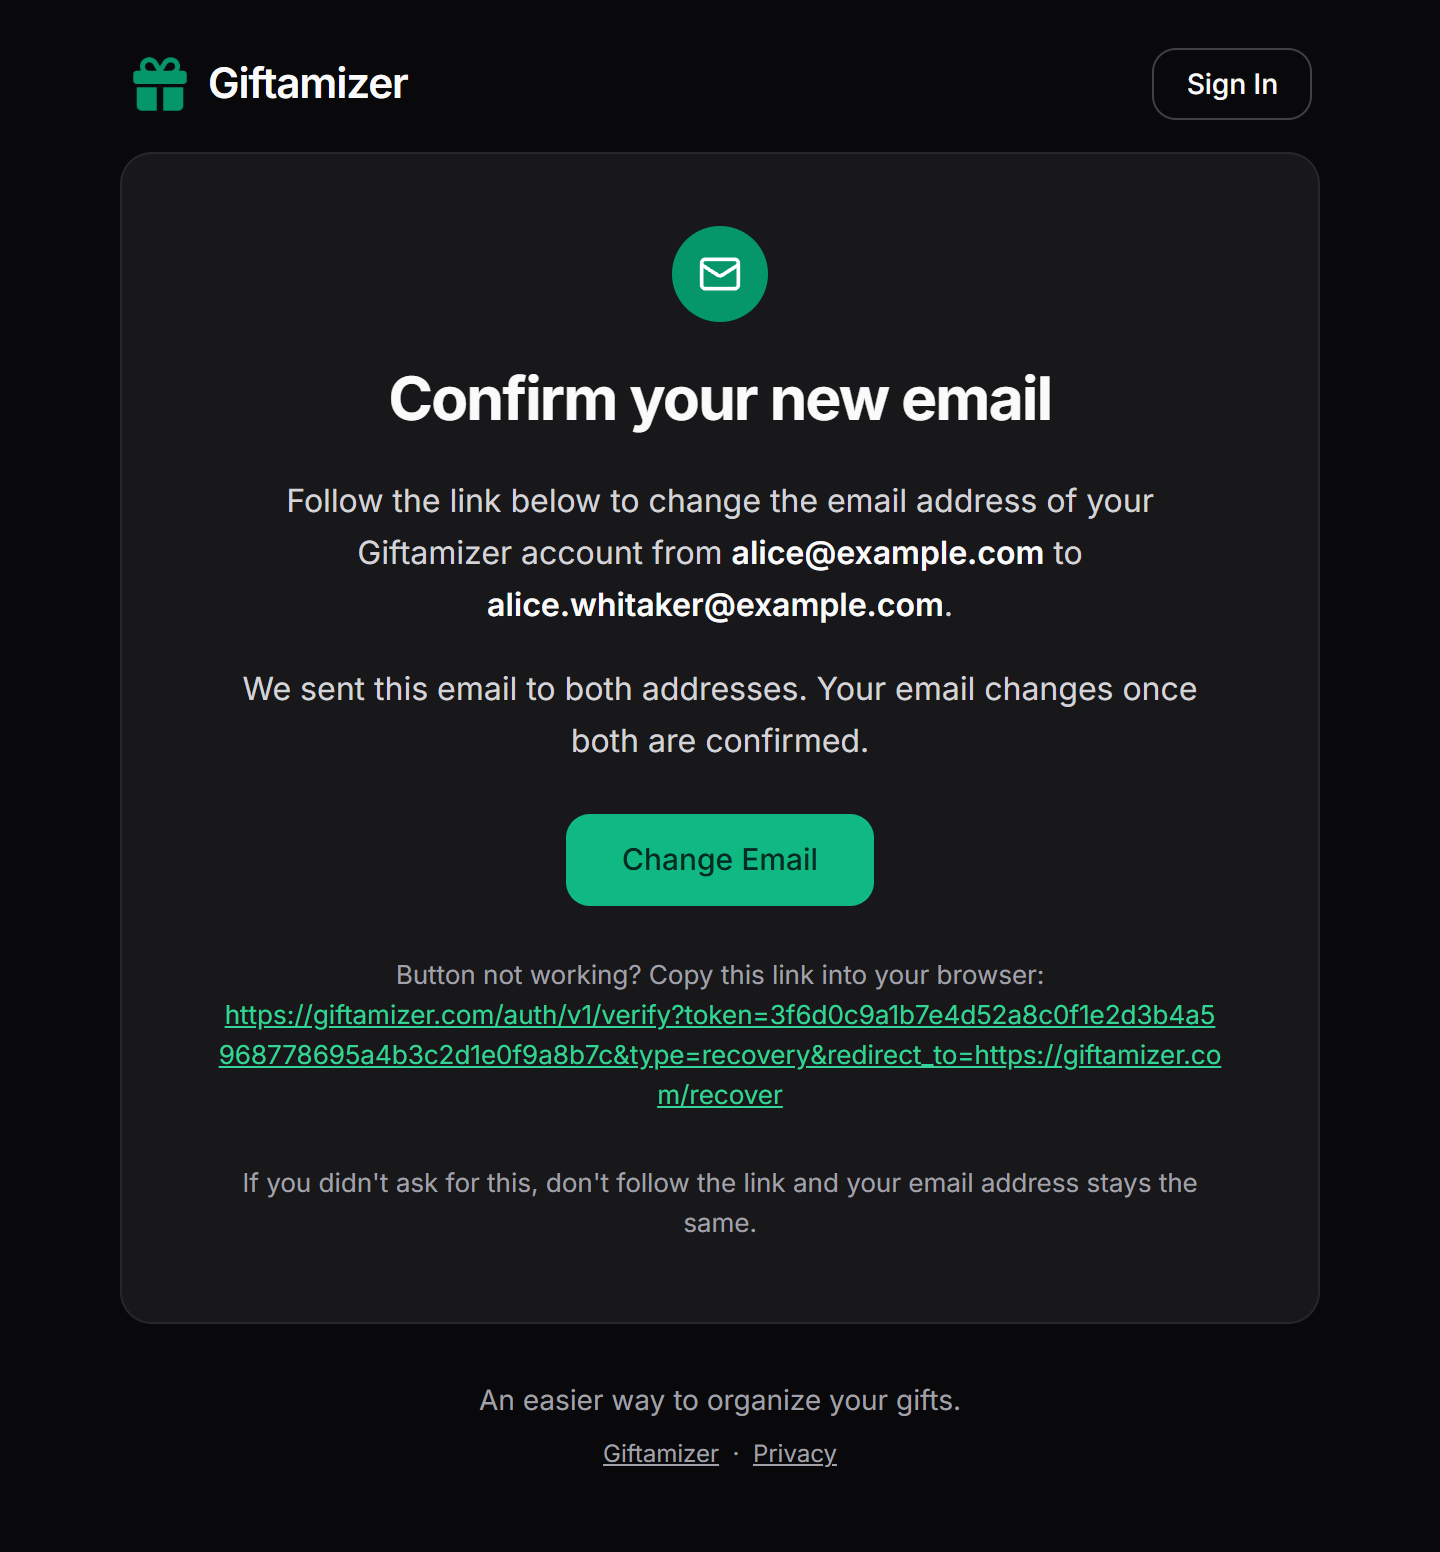
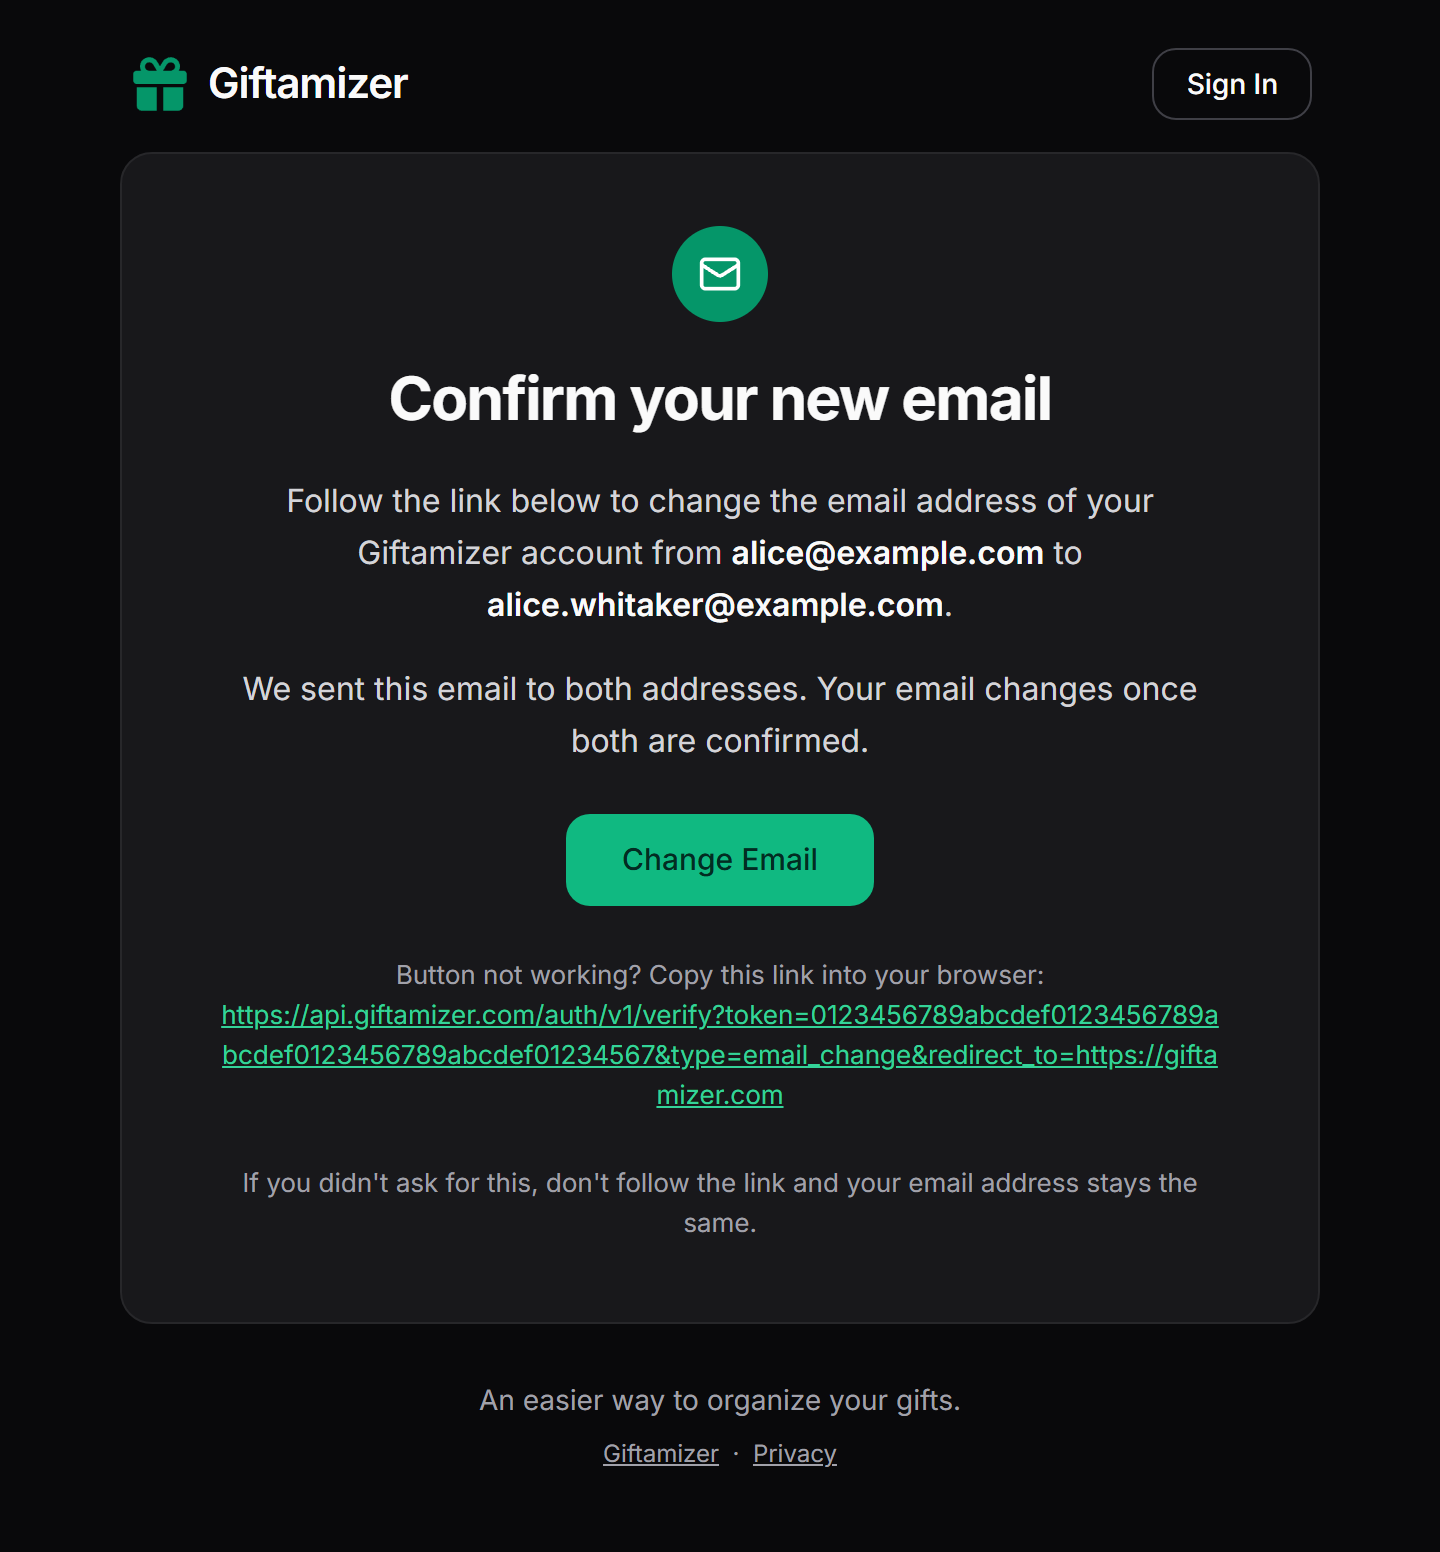
chore: add the script that builds the email previews
Rebuilds email-previews from the current templates. Also rebuilds the
previews with it, which fixes the sample links in the auth emails.

Changed region(s): [[0.1562, 0.6495, 0.8438, 0.7113]]

diff --git a/email-previews/html/2-recovery.html b/email-previews/html/2-recovery.html
@@ -92,11 +92,11 @@
 <table role="presentation" cellpadding="0" cellspacing="0" border="0" style="margin: 24px auto 0;">
 										<tr>
 											<td class="btn" align="center" bgcolor="#059669" style="border-radius: 12px; background-color: #059669; mso-padding-alt: 13px 28px;">
-												<a class="btn-a" href="https://giftamizer.com/auth/v1/verify?token=3f6d0c9a1b7e4d52a8c0f1e2d3b4a5968778695a4b3c2d1e0f9a8b7c&amp;type=recovery&amp;redirect_to=https://giftamizer.com/recover" target="_blank" style="display: inline-block; padding: 13px 28px; border-radius: 12px; font-family: 'Segoe UI', Roboto, Helvetica, Arial, sans-serif; font-size: 15px; line-height: 20px; font-weight: 500; color: #ffffff; text-decoration: none;">Reset Password</a>
+												<a class="btn-a" href="https://api.giftamizer.com/auth/v1/verify?token=0123456789abcdef0123456789abcdef0123456789abcdef01234567&amp;type=recovery&amp;redirect_to=https://giftamizer.com/recover" target="_blank" style="display: inline-block; padding: 13px 28px; border-radius: 12px; font-family: 'Segoe UI', Roboto, Helvetica, Arial, sans-serif; font-size: 15px; line-height: 20px; font-weight: 500; color: #ffffff; text-decoration: none;">Reset Password</a>
 											</td>
 										</tr>
 									</table>
-<p class="muted" style="margin: 24px 0 0; font-family: 'Segoe UI', Roboto, Helvetica, Arial, sans-serif; font-size: 13px; line-height: 20px; color: #71717a;">Button not working? Copy this link into your browser:<br /><a class="accent" href="https://giftamizer.com/auth/v1/verify?token=3f6d0c9a1b7e4d52a8c0f1e2d3b4a5968778695a4b3c2d1e0f9a8b7c&amp;type=recovery&amp;redirect_to=https://giftamizer.com/recover" target="_blank" style="color: #059669; text-decoration: underline; word-break: break-all;">https://giftamizer.com/auth/v1/verify?token=3f6d0c9a1b7e4d52a8c0f1e2d3b4a5968778695a4b3c2d1e0f9a8b7c&amp;type=recovery&amp;redirect_to=https://giftamizer.com/recover</a></p>
+<p class="muted" style="margin: 24px 0 0; font-family: 'Segoe UI', Roboto, Helvetica, Arial, sans-serif; font-size: 13px; line-height: 20px; color: #71717a;">Button not working? Copy this link into your browser:<br /><a class="accent" href="https://api.giftamizer.com/auth/v1/verify?token=0123456789abcdef0123456789abcdef0123456789abcdef01234567&amp;type=recovery&amp;redirect_to=https://giftamizer.com/recover" target="_blank" style="color: #059669; text-decoration: underline; word-break: break-all;">https://api.giftamizer.com/auth/v1/verify?token=0123456789abcdef0123456789abcdef0123456789abcdef01234567&amp;type=recovery&amp;redirect_to=https://giftamizer.com/recover</a></p>
 <p class="muted" style="margin: 24px 0 0; font-family: 'Segoe UI', Roboto, Helvetica, Arial, sans-serif; font-size: 13px; line-height: 20px; color: #71717a;">If you didn't ask for this, you can ignore this email. Your password stays the same.</p>
 										</td>
 									</tr>

diff --git a/email-previews/html/3-email-change.html b/email-previews/html/3-email-change.html
@@ -93,11 +93,11 @@
 <table role="presentation" cellpadding="0" cellspacing="0" border="0" style="margin: 24px auto 0;">
 										<tr>
 											<td class="btn" align="center" bgcolor="#059669" style="border-radius: 12px; background-color: #059669; mso-padding-alt: 13px 28px;">
-												<a class="btn-a" href="https://giftamizer.com/auth/v1/verify?token=3f6d0c9a1b7e4d52a8c0f1e2d3b4a5968778695a4b3c2d1e0f9a8b7c&amp;type=recovery&amp;redirect_to=https://giftamizer.com/recover" target="_blank" style="display: inline-block; padding: 13px 28px; border-radius: 12px; font-family: 'Segoe UI', Roboto, Helvetica, Arial, sans-serif; font-size: 15px; line-height: 20px; font-weight: 500; color: #ffffff; text-decoration: none;">Change Email</a>
+												<a class="btn-a" href="https://api.giftamizer.com/auth/v1/verify?token=0123456789abcdef0123456789abcdef0123456789abcdef01234567&amp;type=email_change&amp;redirect_to=https://giftamizer.com" target="_blank" style="display: inline-block; padding: 13px 28px; border-radius: 12px; font-family: 'Segoe UI', Roboto, Helvetica, Arial, sans-serif; font-size: 15px; line-height: 20px; font-weight: 500; color: #ffffff; text-decoration: none;">Change Email</a>
 											</td>
 										</tr>
 									</table>
-<p class="muted" style="margin: 24px 0 0; font-family: 'Segoe UI', Roboto, Helvetica, Arial, sans-serif; font-size: 13px; line-height: 20px; color: #71717a;">Button not working? Copy this link into your browser:<br /><a class="accent" href="https://giftamizer.com/auth/v1/verify?token=3f6d0c9a1b7e4d52a8c0f1e2d3b4a5968778695a4b3c2d1e0f9a8b7c&amp;type=recovery&amp;redirect_to=https://giftamizer.com/recover" target="_blank" style="color: #059669; text-decoration: underline; word-break: break-all;">https://giftamizer.com/auth/v1/verify?token=3f6d0c9a1b7e4d52a8c0f1e2d3b4a5968778695a4b3c2d1e0f9a8b7c&amp;type=recovery&amp;redirect_to=https://giftamizer.com/recover</a></p>
+<p class="muted" style="margin: 24px 0 0; font-family: 'Segoe UI', Roboto, Helvetica, Arial, sans-serif; font-size: 13px; line-height: 20px; color: #71717a;">Button not working? Copy this link into your browser:<br /><a class="accent" href="https://api.giftamizer.com/auth/v1/verify?token=0123456789abcdef0123456789abcdef0123456789abcdef01234567&amp;type=email_change&amp;redirect_to=https://giftamizer.com" target="_blank" style="color: #059669; text-decoration: underline; word-break: break-all;">https://api.giftamizer.com/auth/v1/verify?token=0123456789abcdef0123456789abcdef0123456789abcdef01234567&amp;type=email_change&amp;redirect_to=https://giftamizer.com</a></p>
 <p class="muted" style="margin: 24px 0 0; font-family: 'Segoe UI', Roboto, Helvetica, Arial, sans-serif; font-size: 13px; line-height: 20px; color: #71717a;">If you didn't ask for this, don't follow the link and your email address stays the same.</p>
 										</td>
 									</tr>

diff --git a/email-previews/html/1-confirmation.html b/email-previews/html/1-confirmation.html
@@ -97,11 +97,11 @@
 <table role="presentation" cellpadding="0" cellspacing="0" border="0" style="margin: 24px auto 0;">
 										<tr>
 											<td class="btn" align="center" bgcolor="#059669" style="border-radius: 12px; background-color: #059669; mso-padding-alt: 13px 28px;">
-												<a class="btn-a" href="https://giftamizer.com/auth/v1/verify?token=3f6d0c9a1b7e4d52a8c0f1e2d3b4a5968778695a4b3c2d1e0f9a8b7c&amp;type=recovery&amp;redirect_to=https://giftamizer.com/recover" target="_blank" style="display: inline-block; padding: 13px 28px; border-radius: 12px; font-family: 'Segoe UI', Roboto, Helvetica, Arial, sans-serif; font-size: 15px; line-height: 20px; font-weight: 500; color: #ffffff; text-decoration: none;">Confirm Email</a>
+												<a class="btn-a" href="https://api.giftamizer.com/auth/v1/verify?token=0123456789abcdef0123456789abcdef0123456789abcdef01234567&amp;type=signup&amp;redirect_to=https://giftamizer.com" target="_blank" style="display: inline-block; padding: 13px 28px; border-radius: 12px; font-family: 'Segoe UI', Roboto, Helvetica, Arial, sans-serif; font-size: 15px; line-height: 20px; font-weight: 500; color: #ffffff; text-decoration: none;">Confirm Email</a>
 											</td>
 										</tr>
 									</table>
-<p class="muted" style="margin: 24px 0 0; font-family: 'Segoe UI', Roboto, Helvetica, Arial, sans-serif; font-size: 13px; line-height: 20px; color: #71717a;">Button not working? Copy this link into your browser:<br /><a class="accent" href="https://giftamizer.com/auth/v1/verify?token=3f6d0c9a1b7e4d52a8c0f1e2d3b4a5968778695a4b3c2d1e0f9a8b7c&amp;type=recovery&amp;redirect_to=https://giftamizer.com/recover" target="_blank" style="color: #059669; text-decoration: underline; word-break: break-all;">https://giftamizer.com/auth/v1/verify?token=3f6d0c9a1b7e4d52a8c0f1e2d3b4a5968778695a4b3c2d1e0f9a8b7c&amp;type=recovery&amp;redirect_to=https://giftamizer.com/recover</a></p>
+<p class="muted" style="margin: 24px 0 0; font-family: 'Segoe UI', Roboto, Helvetica, Arial, sans-serif; font-size: 13px; line-height: 20px; color: #71717a;">Button not working? Copy this link into your browser:<br /><a class="accent" href="https://api.giftamizer.com/auth/v1/verify?token=0123456789abcdef0123456789abcdef0123456789abcdef01234567&amp;type=signup&amp;redirect_to=https://giftamizer.com" target="_blank" style="color: #059669; text-decoration: underline; word-break: break-all;">https://api.giftamizer.com/auth/v1/verify?token=0123456789abcdef0123456789abcdef0123456789abcdef01234567&amp;type=signup&amp;redirect_to=https://giftamizer.com</a></p>
 <p class="muted" style="margin: 24px 0 0; font-family: 'Segoe UI', Roboto, Helvetica, Arial, sans-serif; font-size: 13px; line-height: 20px; color: #71717a;">If you didn't create a Giftamizer account, you can ignore this email.</p>
 										</td>
 									</tr>

diff --git a/README.md b/README.md
@@ -249,6 +249,7 @@ in time instead of `latest`.
 - `volumes/api/kong.yml` — API gateway routing
 - `volumes/auth/templates/` — auth emails (sign-up, password reset, email change), served to the auth service by Kong (`volumes/api/email-templates.conf`)
 - `scripts/build-emails.mjs` — rebuilds the auth emails and the copies of the invite emails from the layout in `volumes/functions/invite/layout.js`
+- `email-previews/` — every email with sample data, open `index.html`; rebuilt by `scripts/build-email-previews.mjs` (needs the frontend checkout next to this one)
 - `volumes/api/kong-entrypoint.sh` — Kong's custom entrypoint (env substitution + opaque-key Lua expressions)
 - `volumes/functions/` — Edge Functions (Deno)
 - `volumes/logs/vector.yml` — Vector log-routing config, used by `docker-compose.logs.yml`
